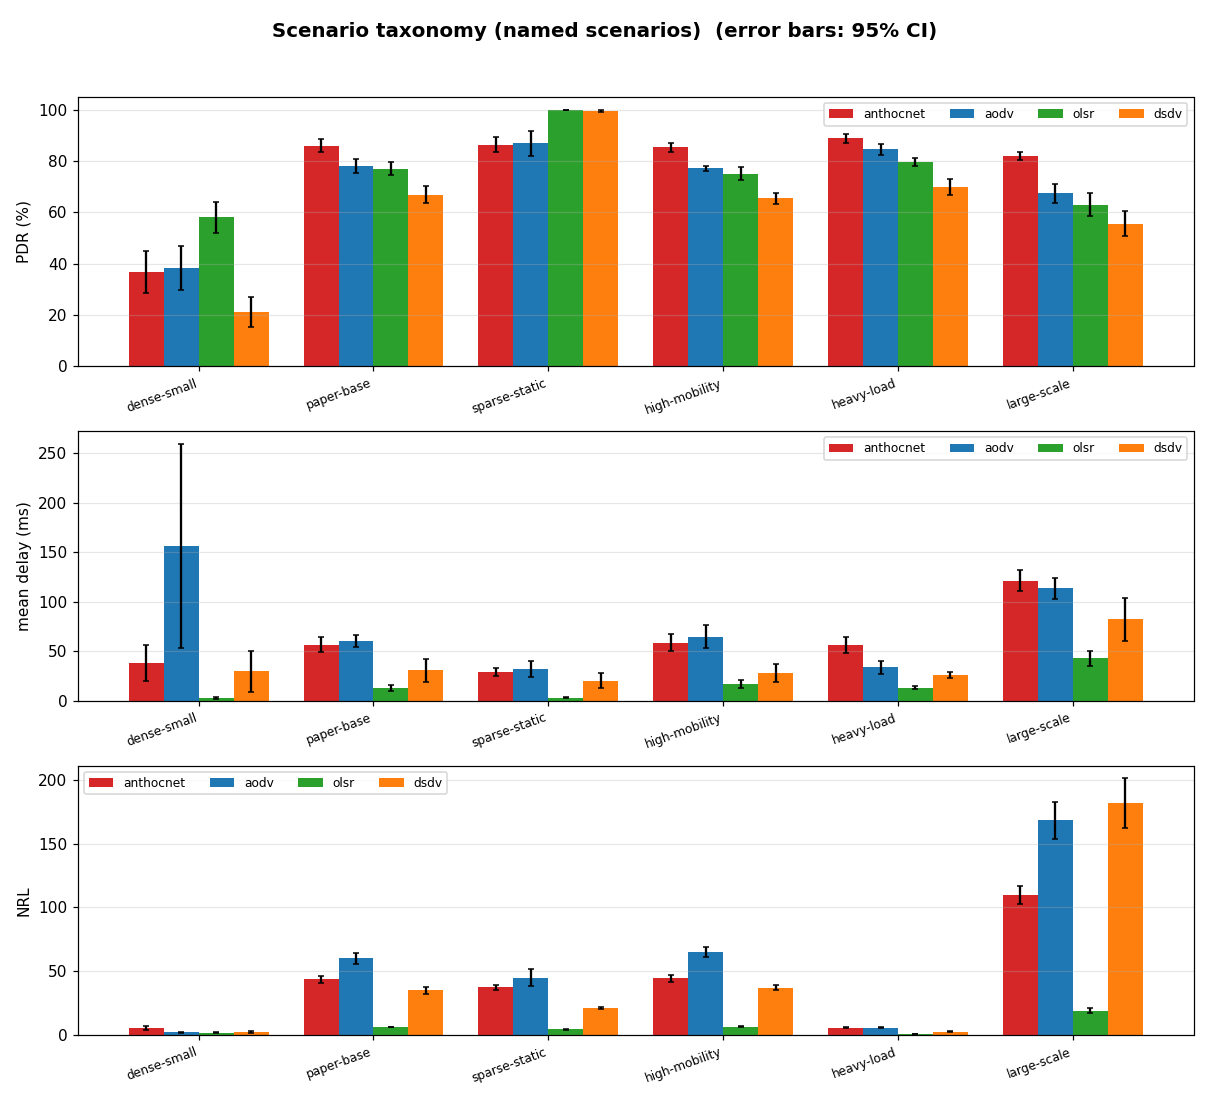
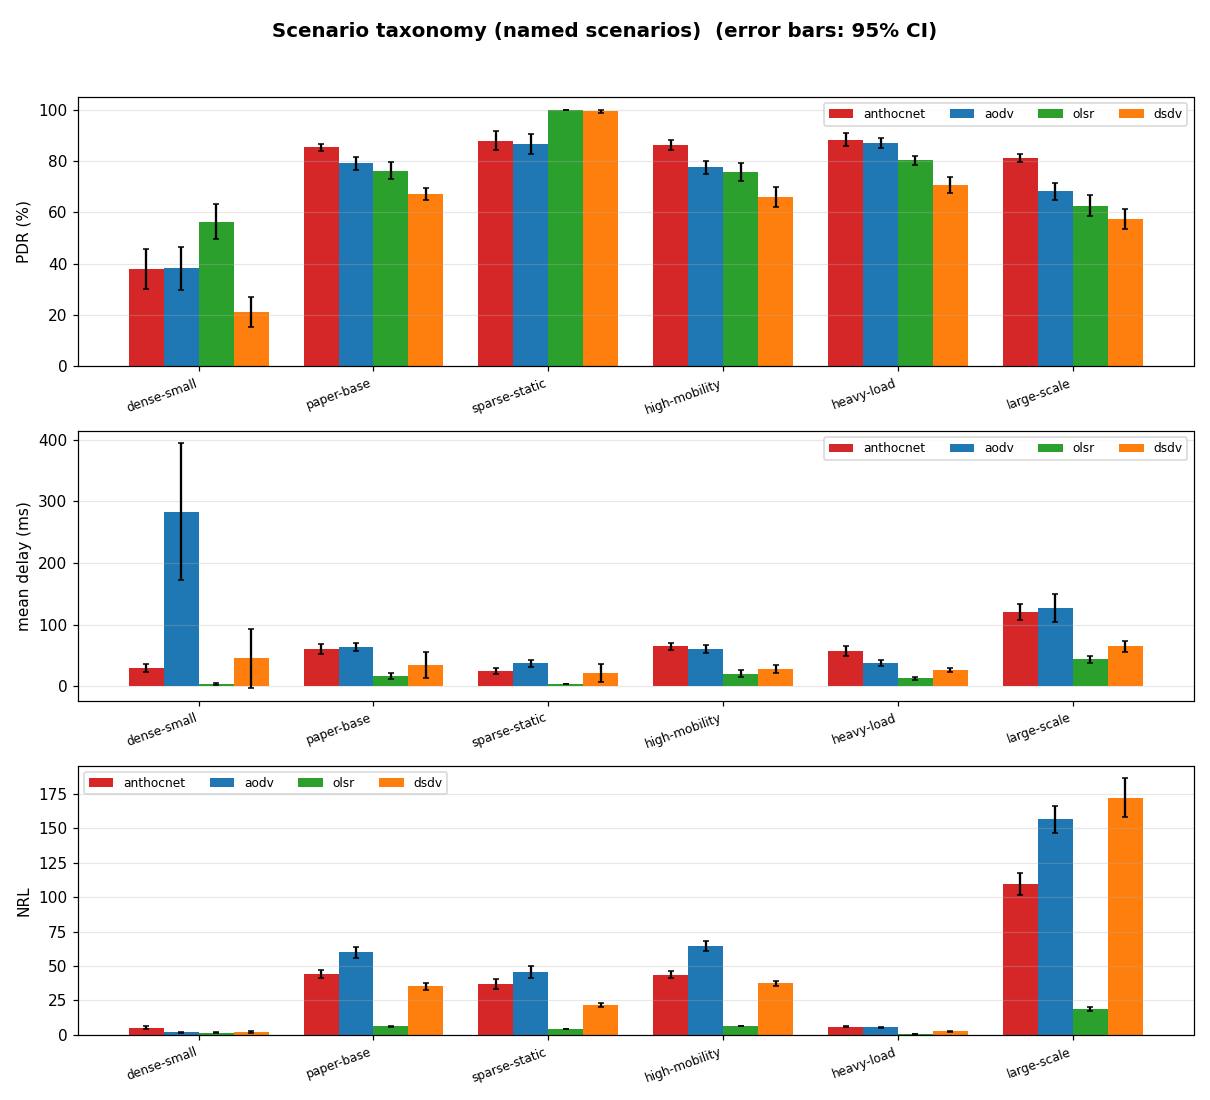
docs: refresh benchmark results + charts [skip ci]

diff --git a/docs/benchmarks.md b/docs/benchmarks.md
@@ -84,18 +84,18 @@ code. The heavier parameter sweeps are produced on demand by the manual
 <!-- BENCHMARK-TABLE-START -->
 _Scenario taxonomy — **PDR % ± 95% CI**, mean of 10 run(s) per scenario, every baseline on identical realisations. Full per-scenario metrics (delay, tail, NRL, jitter) are on the linked pages. Generated by `run-scenarios.py`; charts by `make-charts.py`._
 
-_Measured at [`8483848`](https://github.com/danieljoppi/AntHocNet/commit/84838482d6855eebc15e0e91e9671ecec35038ac), [run](https://github.com/danieljoppi/AntHocNet/actions/runs/32100849512)._
+_Measured at [`1a7c32b`](https://github.com/danieljoppi/AntHocNet/commit/1a7c32b9538d9a1d9449a00c114286ad49f64c93), [run](https://github.com/danieljoppi/AntHocNet/actions/runs/32209850432)._
 
 ![scenario taxonomy](benchmarks/discrete-summary.png)
 
 | scenario | class | anthocnet | aodv | olsr | dsdv |
 |---|---|---:|---:|---:|---:|
-| [dense-small](benchmarks/scenarios/dense-small.md) | dense / low-mobility | 36.6 ± 8.2 | 38.4 ± 8.6 | 58.0 ± 5.9 | 21.2 ± 5.9 |
-| [paper-base](benchmarks/scenarios/paper-base.md) | sparse / mobile | 86.0 ± 2.4 | 78.0 ± 2.8 | 77.0 ± 2.5 | 66.9 ± 3.4 |
-| [sparse-static](benchmarks/scenarios/sparse-static.md) | sparse / static | 86.3 ± 2.9 | 86.8 ± 4.9 | 100.0 ± 0.0 | 99.5 ± 0.5 |
-| [high-mobility](benchmarks/scenarios/high-mobility.md) | sparse / high-mobility | 85.3 ± 1.8 | 77.1 ± 1.0 | 75.0 ± 2.6 | 65.4 ± 2.3 |
-| [heavy-load](benchmarks/scenarios/heavy-load.md) | dense / heavy-load | 88.9 ± 1.8 | 84.5 ± 2.1 | 79.6 ± 1.6 | 70.0 ± 3.1 |
-| [large-scale](benchmarks/scenarios/large-scale.md) | large / mobile | 81.9 ± 1.5 | 67.3 ± 3.6 | 63.0 ± 4.6 | 55.5 ± 4.9 |
+| [dense-small](benchmarks/scenarios/dense-small.md) | dense / low-mobility | 38.0 ± 7.7 | 38.1 ± 8.4 | 56.2 ± 6.8 | 21.0 ± 5.9 |
+| [paper-base](benchmarks/scenarios/paper-base.md) | sparse / mobile | 85.3 ± 1.4 | 79.0 ± 2.5 | 76.1 ± 3.3 | 67.2 ± 2.3 |
+| [sparse-static](benchmarks/scenarios/sparse-static.md) | sparse / static | 87.8 ± 3.7 | 86.6 ± 3.9 | 100.0 ± 0.0 | 99.3 ± 0.5 |
+| [high-mobility](benchmarks/scenarios/high-mobility.md) | sparse / high-mobility | 86.2 ± 1.8 | 77.6 ± 2.5 | 75.7 ± 3.4 | 66.0 ± 4.0 |
+| [heavy-load](benchmarks/scenarios/heavy-load.md) | dense / heavy-load | 88.3 ± 2.5 | 87.0 ± 2.0 | 80.3 ± 1.7 | 70.5 ± 3.1 |
+| [large-scale](benchmarks/scenarios/large-scale.md) | large / mobile | 81.1 ± 1.5 | 68.1 ± 3.3 | 62.5 ± 4.1 | 57.4 ± 4.0 |
 
 <!-- BENCHMARK-TABLE-END -->
 

diff --git a/docs/benchmarks/scenarios/large-scale.md b/docs/benchmarks/scenarios/large-scale.md
@@ -48,13 +48,13 @@ workflow runs the taxonomy with `--quick`.
 <!-- BENCHMARK-TABLE-START -->
 _Mean of 10 run(s), every baseline on identical realisations; ± is the 95% CI half-width (#293). Generated by `run-scenarios.py`._
 
-_Measured at [`8483848`](https://github.com/danieljoppi/AntHocNet/commit/84838482d6855eebc15e0e91e9671ecec35038ac), [run](https://github.com/danieljoppi/AntHocNet/actions/runs/32100849512)._
+_Measured at [`1a7c32b`](https://github.com/danieljoppi/AntHocNet/commit/1a7c32b9538d9a1d9449a00c114286ad49f64c93), [run](https://github.com/danieljoppi/AntHocNet/actions/runs/32209850432)._
 
 | protocol | PDR % ±95 | mean delay (ms) ±95 | 99th delay (ms) ±95 | throughput (kbps) | NRL ±95 | jitter (ms) | dOff90 (ms) |
 |----------|----------:|--------------------:|--------------------:|------------------:|--------:|------------:|------------:|
-| anthocnet | 81.9 ± 1.5 | 121.2 ± 10.4 | 1620.7 ± 203.1 | 4.32 | 109.816 ± 6.71 | 177.52 | inf |
-| aodv | 67.3 ± 3.6 | 113.5 ± 10.4 | 1667.7 ± 174.5 | 3.55 | 168.433 ± 14.60 | 165.15 | inf |
-| olsr | 63.0 ± 4.6 | 42.6 ± 7.5 | 1018.6 ± 6.2 | 3.29 | 19.075 ± 1.82 | 64.72 | inf |
-| dsdv | 55.5 ± 4.9 | 82.1 ± 21.6 | 1544.8 ± 917.2 | 2.93 | 181.927 ± 19.36 | 120.72 | inf |
+| anthocnet | 81.1 ± 1.5 | 120.5 ± 13.4 | 1500.7 ± 211.1 | 4.33 | 109.517 ± 8.00 | 171.92 | inf |
+| aodv | 68.1 ± 3.3 | 126.3 ± 23.0 | 1827.3 ± 356.4 | 3.64 | 156.438 ± 9.73 | 189.35 | inf |
+| olsr | 62.5 ± 4.1 | 43.8 ± 5.7 | 1019.5 ± 3.4 | 3.31 | 18.866 ± 1.57 | 65.85 | inf |
+| dsdv | 57.4 ± 4.0 | 64.7 ± 9.2 | 1139.0 ± 163.2 | 3.07 | 172.200 ± 13.86 | 102.64 | inf |
 
 <!-- BENCHMARK-TABLE-END -->

diff --git a/docs/benchmarks/scenarios/heavy-load.md b/docs/benchmarks/scenarios/heavy-load.md
@@ -49,13 +49,13 @@ cbrBps=4096`). The per-merge `benchmarks` workflow runs the taxonomy with
 <!-- BENCHMARK-TABLE-START -->
 _Mean of 10 run(s), every baseline on identical realisations; ± is the 95% CI half-width (#293). Generated by `run-scenarios.py`._
 
-_Measured at [`8483848`](https://github.com/danieljoppi/AntHocNet/commit/84838482d6855eebc15e0e91e9671ecec35038ac), [run](https://github.com/danieljoppi/AntHocNet/actions/runs/32100849512)._
+_Measured at [`1a7c32b`](https://github.com/danieljoppi/AntHocNet/commit/1a7c32b9538d9a1d9449a00c114286ad49f64c93), [run](https://github.com/danieljoppi/AntHocNet/actions/runs/32209850432)._
 
 | protocol | PDR % ±95 | mean delay (ms) ±95 | 99th delay (ms) ±95 | throughput (kbps) | NRL ±95 | jitter (ms) | dOff90 (ms) |
 |----------|----------:|--------------------:|--------------------:|------------------:|--------:|------------:|------------:|
-| anthocnet | 88.9 ± 1.8 | 55.8 ± 8.0 | 886.3 ± 76.4 | 63.13 | 5.805 ± 0.36 | 51.32 | inf |
-| aodv | 84.5 ± 2.1 | 33.8 ± 6.7 | 705.3 ± 112.8 | 59.99 | 5.743 ± 0.40 | 29.67 | inf |
-| olsr | 79.6 ± 1.6 | 13.1 ± 1.3 | 372.3 ± 190.8 | 51.61 | 0.470 ± 0.02 | 10.53 | inf |
-| dsdv | 70.0 ± 3.1 | 25.7 ± 2.8 | 883.4 ± 51.8 | 49.70 | 2.548 ± 0.13 | 19.61 | inf |
+| anthocnet | 88.3 ± 2.5 | 57.2 ± 8.6 | 903.8 ± 96.1 | 62.71 | 5.834 ± 0.40 | 51.19 | inf |
+| aodv | 87.0 ± 2.0 | 37.4 ± 5.0 | 786.5 ± 67.8 | 61.72 | 5.660 ± 0.35 | 32.20 | inf |
+| olsr | 80.3 ± 1.7 | 12.8 ± 2.4 | 280.6 ± 242.0 | 51.73 | 0.467 ± 0.02 | 10.21 | inf |
+| dsdv | 70.5 ± 3.1 | 26.2 ± 3.2 | 843.5 ± 109.3 | 50.07 | 2.538 ± 0.12 | 18.95 | inf |
 
 <!-- BENCHMARK-TABLE-END -->

diff --git a/docs/benchmarks/scenarios/paper-base.md b/docs/benchmarks/scenarios/paper-base.md
@@ -50,13 +50,13 @@ per-merge `benchmarks` workflow runs the taxonomy with `--quick`.
 <!-- BENCHMARK-TABLE-START -->
 _Mean of 10 run(s), every baseline on identical realisations; ± is the 95% CI half-width (#293). Generated by `run-scenarios.py`._
 
-_Measured at [`8483848`](https://github.com/danieljoppi/AntHocNet/commit/84838482d6855eebc15e0e91e9671ecec35038ac), [run](https://github.com/danieljoppi/AntHocNet/actions/runs/32100849512)._
+_Measured at [`1a7c32b`](https://github.com/danieljoppi/AntHocNet/commit/1a7c32b9538d9a1d9449a00c114286ad49f64c93), [run](https://github.com/danieljoppi/AntHocNet/actions/runs/32209850432)._
 
 | protocol | PDR % ±95 | mean delay (ms) ±95 | 99th delay (ms) ±95 | throughput (kbps) | NRL ±95 | jitter (ms) | dOff90 (ms) |
 |----------|----------:|--------------------:|--------------------:|------------------:|--------:|------------:|------------:|
-| anthocnet | 86.0 ± 2.4 | 56.5 ± 7.7 | 1050.7 ± 75.5 | 4.66 | 43.489 ± 2.88 | 83.80 | inf |
-| aodv | 78.0 ± 2.8 | 60.2 ± 6.2 | 1049.3 ± 33.3 | 4.22 | 60.049 ± 4.21 | 91.62 | inf |
-| olsr | 77.0 ± 2.5 | 12.7 ± 3.0 | 237.3 ± 257.9 | 3.90 | 6.244 ± 0.36 | 15.66 | inf |
-| dsdv | 66.9 ± 3.4 | 30.5 ± 11.5 | 715.1 ± 279.4 | 3.63 | 34.868 ± 2.39 | 38.88 | inf |
+| anthocnet | 85.3 ± 1.4 | 60.6 ± 7.9 | 1098.5 ± 124.4 | 4.56 | 44.054 ± 2.72 | 92.14 | inf |
+| aodv | 79.0 ± 2.5 | 63.6 ± 6.6 | 1105.9 ± 68.3 | 4.22 | 59.823 ± 4.03 | 97.22 | inf |
+| olsr | 76.1 ± 3.3 | 16.5 ± 4.2 | 467.4 ± 335.1 | 3.85 | 6.331 ± 0.37 | 24.96 | inf |
+| dsdv | 67.2 ± 2.3 | 34.8 ± 21.0 | 994.2 ± 603.1 | 3.59 | 35.121 ± 2.32 | 44.07 | inf |
 
 <!-- BENCHMARK-TABLE-END -->

diff --git a/docs/benchmarks/scenarios/dense-small.md b/docs/benchmarks/scenarios/dense-small.md
@@ -48,13 +48,13 @@ Defined as `DISCRETE["dense-small"]` in
 <!-- BENCHMARK-TABLE-START -->
 _Mean of 10 run(s), every baseline on identical realisations; ± is the 95% CI half-width (#293). Generated by `run-scenarios.py`._
 
-_Measured at [`8483848`](https://github.com/danieljoppi/AntHocNet/commit/84838482d6855eebc15e0e91e9671ecec35038ac), [run](https://github.com/danieljoppi/AntHocNet/actions/runs/32100849512)._
+_Measured at [`1a7c32b`](https://github.com/danieljoppi/AntHocNet/commit/1a7c32b9538d9a1d9449a00c114286ad49f64c93), [run](https://github.com/danieljoppi/AntHocNet/actions/runs/32209850432)._
 
 | protocol | PDR % ±95 | mean delay (ms) ±95 | 99th delay (ms) ±95 | throughput (kbps) | NRL ±95 | jitter (ms) | dOff90 (ms) |
 |----------|----------:|--------------------:|--------------------:|------------------:|--------:|------------:|------------:|
-| anthocnet | 36.6 ± 8.2 | 38.0 ± 18.0 | 933.6 ± 630.6 | 8.12 | 5.455 ± 1.36 | 13.66 | inf |
-| aodv | 38.4 ± 8.6 | 156.4 ± 102.9 | 3635.7 ± 2059.7 | 8.53 | 1.994 ± 0.42 | 27.74 | inf |
-| olsr | 58.0 ± 5.9 | 2.7 ± 1.2 | 14.1 ± 6.2 | 4.99 | 1.616 ± 0.42 | 1.17 | inf |
-| dsdv | 21.2 ± 5.9 | 29.4 ± 20.5 | 439.7 ± 884.6 | 4.70 | 1.968 ± 0.75 | 12.76 | inf |
+| anthocnet | 38.0 ± 7.7 | 29.1 ± 6.5 | 704.4 ± 486.6 | 8.45 | 5.132 ± 1.08 | 13.45 | inf |
+| aodv | 38.1 ± 8.4 | 283.5 ± 110.7 | 6604.9 ± 1696.9 | 8.47 | 2.033 ± 0.42 | 35.79 | inf |
+| olsr | 56.2 ± 6.8 | 2.7 ± 1.7 | 12.9 ± 4.9 | 4.88 | 1.670 ± 0.48 | 0.83 | inf |
+| dsdv | 21.0 ± 5.9 | 44.9 ± 48.4 | 1338.1 ± 2176.3 | 4.66 | 1.892 ± 0.63 | 19.08 | inf |
 
 <!-- BENCHMARK-TABLE-END -->

diff --git a/docs/benchmarks/scenarios/high-mobility.md b/docs/benchmarks/scenarios/high-mobility.md
@@ -48,13 +48,13 @@ taxonomy with `--quick`.
 <!-- BENCHMARK-TABLE-START -->
 _Mean of 10 run(s), every baseline on identical realisations; ± is the 95% CI half-width (#293). Generated by `run-scenarios.py`._
 
-_Measured at [`8483848`](https://github.com/danieljoppi/AntHocNet/commit/84838482d6855eebc15e0e91e9671ecec35038ac), [run](https://github.com/danieljoppi/AntHocNet/actions/runs/32100849512)._
+_Measured at [`1a7c32b`](https://github.com/danieljoppi/AntHocNet/commit/1a7c32b9538d9a1d9449a00c114286ad49f64c93), [run](https://github.com/danieljoppi/AntHocNet/actions/runs/32209850432)._
 
 | protocol | PDR % ±95 | mean delay (ms) ±95 | 99th delay (ms) ±95 | throughput (kbps) | NRL ±95 | jitter (ms) | dOff90 (ms) |
 |----------|----------:|--------------------:|--------------------:|------------------:|--------:|------------:|------------:|
-| anthocnet | 85.3 ± 1.8 | 58.4 ± 8.8 | 1061.6 ± 75.5 | 4.62 | 44.279 ± 2.48 | 86.62 | inf |
-| aodv | 77.1 ± 1.0 | 64.4 ± 11.5 | 1193.0 ± 193.1 | 4.18 | 64.958 ± 4.07 | 100.64 | inf |
-| olsr | 75.0 ± 2.6 | 17.0 ± 3.9 | 234.3 ± 291.3 | 3.84 | 6.520 ± 0.40 | 24.50 | inf |
-| dsdv | 65.4 ± 2.3 | 27.6 ± 9.3 | 764.4 ± 289.8 | 3.55 | 37.148 ± 1.95 | 40.35 | inf |
+| anthocnet | 86.2 ± 1.8 | 64.5 ± 6.3 | 1138.9 ± 45.5 | 4.61 | 43.664 ± 2.70 | 98.05 | inf |
+| aodv | 77.6 ± 2.5 | 59.6 ± 6.4 | 1058.8 ± 36.5 | 4.15 | 64.525 ± 3.93 | 90.42 | inf |
+| olsr | 75.7 ± 3.4 | 20.0 ± 5.9 | 483.4 ± 346.0 | 3.84 | 6.498 ± 0.31 | 28.70 | inf |
+| dsdv | 66.0 ± 4.0 | 27.8 ± 7.2 | 786.6 ± 266.3 | 3.52 | 37.432 ± 1.80 | 38.72 | inf |
 
 <!-- BENCHMARK-TABLE-END -->

diff --git a/docs/benchmarks/scenarios/sparse-static.md b/docs/benchmarks/scenarios/sparse-static.md
@@ -48,13 +48,13 @@ taxonomy with `--quick`.
 <!-- BENCHMARK-TABLE-START -->
 _Mean of 10 run(s), every baseline on identical realisations; ± is the 95% CI half-width (#293). Generated by `run-scenarios.py`._
 
-_Measured at [`8483848`](https://github.com/danieljoppi/AntHocNet/commit/84838482d6855eebc15e0e91e9671ecec35038ac), [run](https://github.com/danieljoppi/AntHocNet/actions/runs/32100849512)._
+_Measured at [`1a7c32b`](https://github.com/danieljoppi/AntHocNet/commit/1a7c32b9538d9a1d9449a00c114286ad49f64c93), [run](https://github.com/danieljoppi/AntHocNet/actions/runs/32209850432)._
 
 | protocol | PDR % ±95 | mean delay (ms) ±95 | 99th delay (ms) ±95 | throughput (kbps) | NRL ±95 | jitter (ms) | dOff90 (ms) |
 |----------|----------:|--------------------:|--------------------:|------------------:|--------:|------------:|------------:|
-| anthocnet | 86.3 ± 2.9 | 28.8 ± 4.5 | 711.3 ± 236.9 | 4.68 | 37.415 ± 1.84 | 38.22 | inf |
-| aodv | 86.8 ± 4.9 | 32.1 ± 8.0 | 534.8 ± 216.5 | 4.69 | 44.904 ± 6.66 | 40.36 | inf |
-| olsr | 100.0 ± 0.0 | 3.0 ± 0.5 | 16.7 ± 2.6 | 5.39 | 4.320 ± 0.15 | 0.92 | 4.6 |
-| dsdv | 99.5 ± 0.5 | 20.1 ± 7.7 | 325.1 ± 262.8 | 5.39 | 21.084 ± 0.88 | 21.96 | 11.2 |
+| anthocnet | 87.8 ± 3.7 | 24.6 ± 5.5 | 538.8 ± 311.1 | 4.70 | 36.955 ± 3.35 | 32.38 | inf |
+| aodv | 86.6 ± 3.9 | 36.9 ± 5.5 | 678.4 ± 85.5 | 4.63 | 45.854 ± 4.49 | 47.82 | inf |
+| olsr | 100.0 ± 0.0 | 3.2 ± 0.5 | 15.3 ± 2.4 | 5.32 | 4.380 ± 0.15 | 0.93 | 4.4 |
+| dsdv | 99.3 ± 0.5 | 21.4 ± 14.4 | 347.5 ± 266.7 | 5.31 | 21.626 ± 1.57 | 23.59 | 11.7 |
 
 <!-- BENCHMARK-TABLE-END -->
